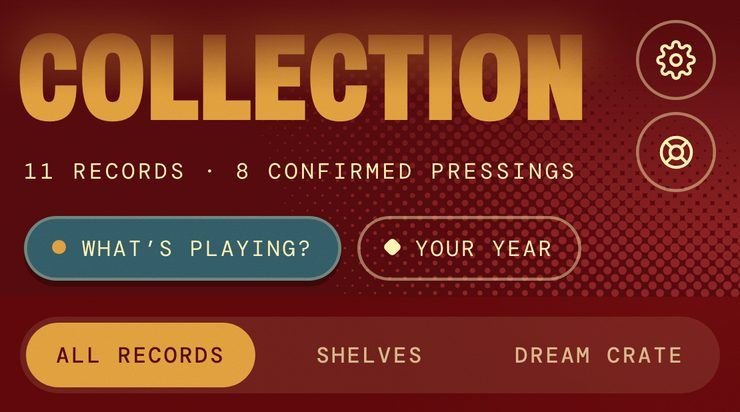
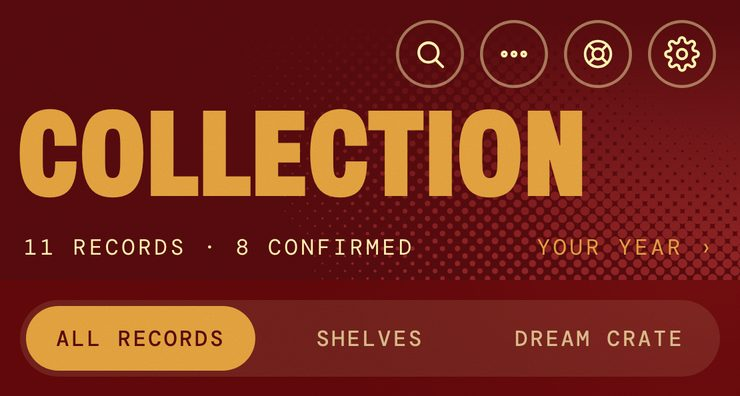
Update prototype

diff --git a/index.html b/index.html
@@ -1089,6 +1089,32 @@ ul.plain{margin:0 0 10px;padding-left:18px;font-size:14px;line-height:1.45}ul.pl
 .scan.roomy .vf[data-m=barcode] ~ .guide{top:596px}
 }
 .vf .corner{vector-effect:non-scaling-stroke}
+/* Collection: a calm header. Tools live behind the search and ⋯ buttons; the nudge floats low and slim. */
+#collection .gear,#collection .helpb.colh{top:62px;width:34px;height:34px}
+#collection .gear svg,#collection .helpb.colh svg{width:18px;height:18px}
+#collection .gear{right:22px}
+#collection .helpb.colh{right:64px}
+#collection .gear.colv{right:106px}
+#collection .gear.cols{right:148px}
+.fdot{position:absolute;top:2px;right:2px;width:9px;height:9px;border-radius:50%;background:var(--gold);box-shadow:0 0 0 2px var(--ox)}
+#collection .hd.sm{padding-top:44px}
+.colline{display:flex;justify-content:space-between;align-items:baseline;gap:12px;max-width:none!important}
+.yrlink,.colline .yrlink{font-family:var(--mono);font-size:11px;letter-spacing:.14em;text-transform:uppercase;color:var(--gold);white-space:nowrap}
+.search[hidden]{display:none}
+#nudge{position:absolute;left:0;right:0;bottom:98px;z-index:30;pointer-events:none;padding:0 16px}
+#nudge .nudgew{pointer-events:auto;display:flex;align-items:center;margin-top:8px;border-radius:999px;background:rgba(42,5,8,.96);box-shadow:inset 0 0 0 1.5px rgba(224,159,62,.6)}
+.nudge,.nudge.n2{margin:0;width:auto;flex:1;min-width:0;background:none;color:var(--cream);padding:11px 6px 11px 16px;display:flex;align-items:center;justify-content:space-between;gap:10px;font-family:var(--mono);font-size:11px;letter-spacing:.1em;text-transform:uppercase;text-align:left}
+.nudge i,.nudge:not(.n2) i{background:none;color:var(--gold);padding:0;font-weight:500;font-size:11px;letter-spacing:.12em}
+.nx{width:34px;height:34px;flex:none;color:var(--cream);opacity:.7;font-size:20px;line-height:1}
+.sheet .vrow{display:flex;align-items:center;justify-content:space-between;gap:12px;padding:12px 0;border-top:1.5px solid rgba(84,11,14,.18);font-family:var(--mono);font-size:12px;letter-spacing:.1em;text-transform:uppercase}
+.sheet .vrow .sortb{text-decoration:underline;text-underline-offset:4px;text-decoration-thickness:1.5px;font-family:var(--mono);font-size:12px;letter-spacing:.1em;text-transform:uppercase;color:var(--ox)}
+.sheet .vlab{padding:14px 0 6px;border-top:1.5px solid rgba(84,11,14,.18);font-family:var(--mono);font-size:11px;letter-spacing:.14em;text-transform:uppercase;opacity:.75}
+.sheet .chips{padding:2px 0 12px;flex-wrap:wrap;overflow:visible}
+.sheet .chip{color:var(--ox);box-shadow:inset 0 0 0 1.5px rgba(84,11,14,.4)}
+.sheet .chip[aria-pressed=true]{background:var(--ox);color:var(--cream)}
+.sheet .legend{padding:2px 0 16px;opacity:1;flex-wrap:wrap}
+.sheet .legend i{border-color:var(--ox)}.sheet .legend i.c{background:var(--ox)}.sheet .legend i.l{background:linear-gradient(90deg,var(--ox) 50%,transparent 50%)}
+
 
 .shutter{bottom:110px;width:64px;height:64px;box-shadow:0 0 0 4px var(--ox),0 0 0 7px var(--cream)}
 .shutter::after{inset:14px;border-width:3px}
@@ -1424,21 +1450,18 @@ ul.plain{margin:0 0 10px;padding-left:18px;font-size:14px;line-height:1.45}ul.pl
     <!-- Collection -->
     <section class="screen" data-screen="collection" id="collection">
       <div class="scroll" id="colScroll">
+        <button class="gear cols" id="colSearchBtn" data-colsearch="1" aria-label="Search your collection"><svg viewBox="0 0 24 24" aria-hidden="true"><circle cx="11" cy="11" r="6.5"/><path d="M16 16l4.5 4.5"/></svg></button>
+        <button class="gear colv" id="colViewBtn" data-colview="1" aria-label="Sort, filter and layout"><svg viewBox="0 0 24 24" aria-hidden="true"><circle cx="5.5" cy="12" r="1.4"/><circle cx="12" cy="12" r="1.4"/><circle cx="18.5" cy="12" r="1.4"/></svg><u class="fdot" id="colDot" hidden></u></button>
         <button class="helpb colh" data-help="1" aria-label="How to use Memory Wax"><svg viewBox="0 0 24 24" aria-hidden="true"><circle cx="12" cy="12" r="8.6"/><circle cx="12" cy="12" r="3.6"/><path d="M5.9 5.9l3.5 3.5M14.6 14.6l3.5 3.5M18.1 5.9l-3.5 3.5M9.4 14.6l-3.5 3.5"/></svg></button>
         <button class="gear" data-set="settings" aria-label="Settings and data"><svg viewBox="0 0 24 24"><circle cx="12" cy="12" r="3.2"/><path d="M19.4 15a1.7 1.7 0 0 0 .3 1.8l.1.1a2 2 0 1 1-2.8 2.8l-.1-.1a1.7 1.7 0 0 0-1.8-.3 1.7 1.7 0 0 0-1 1.5V21a2 2 0 1 1-4 0v-.1a1.7 1.7 0 0 0-1.1-1.5 1.7 1.7 0 0 0-1.8.3l-.1.1a2 2 0 1 1-2.8-2.8l.1-.1a1.7 1.7 0 0 0 .3-1.8 1.7 1.7 0 0 0-1.5-1H3a2 2 0 1 1 0-4h.1a1.7 1.7 0 0 0 1.5-1.1 1.7 1.7 0 0 0-.3-1.8l-.1-.1a2 2 0 1 1 2.8-2.8l.1.1a1.7 1.7 0 0 0 1.8.3H9a1.7 1.7 0 0 0 1-1.5V3a2 2 0 1 1 4 0v.1a1.7 1.7 0 0 0 1 1.5 1.7 1.7 0 0 0 1.8-.3l.1-.1a2 2 0 1 1 2.8 2.8l-.1.1a1.7 1.7 0 0 0-.3 1.8V9a1.7 1.7 0 0 0 1.5 1H21a2 2 0 1 1 0 4h-.1a1.7 1.7 0 0 0-1.5 1z"/></svg></button>
-        <div class="hd sm"><h2 class="disp">Collection</h2><p id="colSub"></p><div class="hearrow"><button class="hearpill press" data-hear="open">What’s playing?</button><button class="hearpill yr press" data-year="open">Your year</button></div></div>
+        <div class="hd sm"><h2 class="disp">Collection</h2><p class="colline"><span id="colSub"></span><button class="yrlink" data-year="open">Your year ›</button></p></div>
         <div class="colbar"><div class="seg" id="colTabs" style="--i:0" role="group" aria-label="Collection view">
           <i class="thumb"></i><button aria-pressed="true" data-t="0">All records</button><button aria-pressed="false" data-t="1">Shelves</button><button aria-pressed="false" data-t="2">Dream Crate</button></div></div>
 
         <div id="v-all">
           <div id="firstRun" class="firstrun" hidden><span class="kick">Start here</span><h3 class="disp">Add your first album</h3><p>Scan it, type it in, or bring a list you already keep. We’ll do the rest.</p><button class="pill press" id="goScan">Scan an album</button><button class="pill press" id="goType" style="background:transparent;color:var(--cream);box-shadow:inset 0 0 0 1.5px var(--cream)">Type it in</button><button class="pill press" data-set="import" style="background:transparent;color:var(--cream);box-shadow:inset 0 0 0 1.5px var(--cream)">Import from Discogs</button></div>
           <div id="allBody">
-          <div id="nudge"></div>
-          <input class="search" id="search" type="search" placeholder="Search credits, labels, matrix, memories" aria-label="Search your collection" autocomplete="off">
-          <div class="chips" id="chips"></div>
-          <div class="ctrl"><button class="sortb" id="sortBtn"></button><button class="sortb" id="selBtn">Select</button>
-            <div class="seg" id="viewSeg" style="--i:0;--n:2" role="group" aria-label="Layout"><i class="thumb"></i><button aria-pressed="true" data-v="grid">Grid</button><button aria-pressed="false" data-v="list">List</button></div></div>
-          <div class="legend"><span><i class="c"></i>Confirmed</span><span><i class="l"></i>Likely</span><span><i></i>Album only</span><button class="legq" data-confhelp="1" aria-label="What do Confirmed, Likely and Album only mean?">?</button></div>
+          <input class="search" id="search" type="search" placeholder="Search credits, labels, matrix, memories" aria-label="Search your collection" autocomplete="off" hidden>
           <div class="rgrid" id="rgrid"></div>
           </div>
         </div>
@@ -1453,6 +1476,7 @@ ul.plain{margin:0 0 10px;padding-left:18px;font-size:14px;line-height:1.45}ul.pl
           <div id="wants" style="padding:4px 20px 0"></div>
         </div>
       </div>
+      <div id="nudge"></div>
     </section>
 
     <!-- Collectors -->
@@ -1474,6 +1498,18 @@ ul.plain{margin:0 0 10px;padding-left:18px;font-size:14px;line-height:1.45}ul.pl
     <div class="mini" id="miniNP" hidden><button class="mopen" data-npa="open" aria-label="Open the player"><span class="mart" id="miniArt"></span><span style="min-width:0"><b id="miniT"></b><em id="miniA"></em></span></button><button class="mtog" id="miniTog" data-npa="toggle" aria-label="Pause"></button></div>
 
     <div class="backdrop" id="backdrop"></div>
+
+    <div class="sheet" id="sheet-view" role="dialog" aria-label="Sort, filter and layout">
+      <h4 class="disp">View</h4>
+      <div class="vrow"><span>Sort</span><button class="sortb" id="sortBtn"></button></div>
+      <div class="vrow"><span>Layout</span><div class="seg sheetseg" id="viewSeg" style="--i:0;--n:2;width:150px;margin:0" role="group" aria-label="Layout"><i class="thumb"></i><button aria-pressed="true" data-v="grid">Grid</button><button aria-pressed="false" data-v="list">List</button></div></div>
+      <div class="vlab">Show</div>
+      <div class="chips" id="chips"></div>
+      <div class="vrow"><span>Pick several records</span><button class="sortb" id="selBtn">Select</button></div>
+      <div class="vlab">What the dots mean</div>
+      <div class="legend"><span><i class="c"></i>Confirmed</span><span><i class="l"></i>Likely</span><span><i></i>Album only</span><button class="legq" data-confhelp="1" aria-label="What do Confirmed, Likely and Album only mean?">?</button></div>
+      <button class="go press" data-close="1">Done</button>
+    </div>
 
     <div class="sheet" id="sheet-cands" role="dialog" aria-label="Which pressing do you have">
       <h4 class="disp">Which one do you have?</h4>
@@ -1974,7 +2010,7 @@ function initState(empty){
 /* first launch is the clean, nothing-scanned version. The sample collection is opt-in (Settings, or ?demo=1). */
 /* Developer tools (test lab, sample data, saved scan shots, runtime-loaded libraries). Release builds set this to false in scripts/sync-web.sh --release so no hidden or dormant features ship. */
 const DEVTOOLS=true;
-const BUILD='0.43.1 · keyboard fit';
+const BUILD='0.44.0 · quiet collection';
 /* where people reach us. Left empty until the real address exists, and the screens that need it stay hidden meanwhile. */
 const SUPPORT_EMAIL='',SITE_URL='';
 const DEMO=DEVTOOLS&&(()=>{try{if(/[?&]demo=1/.test(location.search))localStorage.setItem('mw_demo','1');if(/[?&]demo=0/.test(location.search))localStorage.removeItem('mw_demo');return localStorage.getItem('mw_demo')==='1'}catch(e){return false}})();
@@ -2014,6 +2050,16 @@ function openSheet(id){
   if(id==='credit'){if(stack)st.ret='listen';else if(!$('#sheet-credit').classList.contains('on'))st.ret=null}else if(id!=='listen')st.ret=null;
   if(id==='credit')$('#sheet-credit').classList.toggle('stk',stack);
   $$('.sheet.on').forEach(x=>{if(x.id!=='sheet-'+id&&!(stack&&x.id==='sheet-listen'))x.classList.remove('on')});$('#backdrop').classList.add('on');$('#sheet-'+id).classList.add('on')}
+/* search sits behind the magnifier, or a pull down at the top of the list */
+function openColSearch(){
+  if(st.colTab!==0){st.colTab=0}
+  st.searchOpen=true;renderCollection();const sc=$('#colScroll');if(sc)sc.scrollTop=0;
+  setTimeout(()=>{const i=$('#search');i&&i.focus()},60);
+}
+{const sc=$('#colScroll');let y0=null;
+ sc.addEventListener('touchstart',e=>{y0=sc.scrollTop<=0?e.touches[0].clientY:null},{passive:true});
+ sc.addEventListener('touchmove',e=>{if(y0==null||st.searchOpen||st.screen!=='collection'||!own().length)return;if(e.touches[0].clientY-y0>80&&sc.scrollTop<=0){y0=null;haptic&&haptic('tick');openColSearch()}},{passive:true});
+ $('#search').addEventListener('blur',()=>setTimeout(()=>{if(!$('#search').value.trim()&&st.searchOpen){st.searchOpen=false;renderCollection()}},200))}
 /* when the keyboard opens, iOS shifts the view; keep any open sheet inside the part of the screen that is still visible, so its title never slides under the status bar */
 function kbFit(vv){
   vv=vv||window.visualViewport;if(!vv)return;
@@ -3221,14 +3267,17 @@ function askRemoveRecords(ids){
 }
 function renderCollection(){
   const all=own(),conf=all.filter(r=>r.c==='confirmed').length,empty=!all.length;
-  $('#colSub').textContent=empty?'0 records':`${all.length} records · ${conf} confirmed pressings`;
+  $('#colSearchBtn').hidden=$('#colViewBtn').hidden=empty;
   $('#firstRun').hidden=!empty;$('#allBody').hidden=empty;
   const genres=['All',...new Set(all.map(r=>r.g).filter(Boolean))];
   $('#chips').innerHTML=genres.map(g=>`<button class="chip" data-chip="${g}" aria-pressed="${st.filter===g}">${g}</button>`).join('')+(RECS.some(r=>st.owned.has(r.id)&&IS7(r))?`<button class="chip" data-chip="45s" aria-pressed="${st.filter==='45s'}">45s</button>`:'')+`<button class="chip" data-conf aria-pressed="${st.confOnly}">Confirmed only</button>`;
   const q=st.q.trim().toLowerCase();
   let items=all.map(r=>({r,why:q?match(r,q):''})).filter(x=>x.why!==null&&(st.filter==='All'||(st.filter==='45s'?IS7(x.r):x.r.g===st.filter))&&(!st.confOnly||x.r.c==='confirmed'));
   items.sort(st.sort==='az'?(a,b)=>a.r.t.localeCompare(b.r.t):st.sort==='year'?(a,b)=>a.r.y-b.r.y:(a,b)=>b.r.ord-a.r.ord);
-  $('#sortBtn').textContent=`${items.length} shown · ${SORTS[st.sort]}`;$('#sortBtn').setAttribute('aria-label','Change sort order. Now: '+SORTS[st.sort]);
+  $('#sortBtn').textContent=SORTS[st.sort];
+  {const fil=st.filter!=='All'||st.confOnly||!!q;$('#colDot').hidden=!(st.filter!=='All'||st.confOnly||st.view==='list'||st.sort!=='recent');
+   $('#colSub').innerHTML=empty?'0 records':fil?`${items.length} of ${all.length} shown · <button class="yrlink" data-clearf="1">Clear</button>`:`${all.length} records · ${conf} confirmed`;
+   $('#search').hidden=!(st.searchOpen||q);}$('#sortBtn').setAttribute('aria-label','Change sort order. Now: '+SORTS[st.sort]);
   if(st.colTab!==0||empty)st.sel=null;
   $('#selBtn').textContent=st.sel?'Cancel':'Select';$('#selBtn').hidden=!all.length;
   $('#selBar').hidden=!(st.sel&&st.screen==='collection');$('#selN').textContent=st.sel?`${st.sel.size} selected`:'';
@@ -3236,7 +3285,8 @@ function renderCollection(){
   g.innerHTML=!items.length?'<p class="empty">Nothing matches. Try another word or filter.</p>':!asList?items.map(x=>tileHTML(x.r)).join(''):
     items.map(({r,why})=>`<div class="lrow${st.sel&&st.sel.has(r.id)?' sel':''}"><div class="tile m${r.m}${cov(r)?` has-img" style="background-image:url('${cov(r)}')`:''}"></div><button class="lt" data-open="${r.id}" style="text-align:left"><b>${esc(r.t)}</b><span>${esc(r.a)} · ${r.y}${why?' · '+why:''}</span></button><span class="lst">${stLabel[r.c]}</span><i class="ck" aria-hidden="true"></i><button class="plus" data-plus="${r.id}" aria-label="Add ${esc(r.t)} to a shelf">+</button></div>`).join('');
   const loose=all.filter(r=>r.c!=='confirmed').length;
-  $('#nudge').innerHTML=(backupStale()?`<button class="nudge n2" data-set="backup"><div><b>${lastBackupAt()?'It’s been a while since your last backup':'Your collection lives on this phone'}</b><span>Save a backup file. It takes a few seconds.</span></div><i>Back up</i></button>`:'')+(loose?`<button class="nudge" data-nudge="1"><div><b>${loose} could be confirmed</b><span>Scan their deadwax to name the exact pressing.</span></div><i>Scan</i></button>`:'');
+  $('#nudge').innerHTML=st.nudgeOff?'':`<div class="nudgew">${backupStale()?`<button class="nudge n2" data-set="backup"><span>${lastBackupAt()?'Time for a backup':'Back up your collection'}</span><i>Back up ›</i></button>`:loose?`<button class="nudge" data-nudge="1"><span>${loose} could be confirmed</span><i>Scan ›</i></button>`:''}<button class="nx" data-nudgex="1" aria-label="Hide this for now">×</button></div>`;
+  if(!backupStale()&&!loose||st.colTab!==0||st.sel||empty)$('#nudge').innerHTML='';
   renderShelves();renderWants();
   $$('#colTabs button').forEach(b=>b.setAttribute('aria-pressed',String(+b.dataset.t===st.colTab)));
   $('#colTabs').style.setProperty('--i',st.colTab);
@@ -5710,7 +5760,7 @@ document.addEventListener('input',e=>{
 
 /* one delegated handler for everything dynamic */
 document.addEventListener('click',e=>{
-  const t=e.target.closest('[data-help],[data-door],[data-welcome],[data-me],[data-ac],[data-fr],[data-sitend],[data-sitdel],[data-sitpl],[data-amconnect],[data-cloud],[data-hearorg],[data-sit],[data-sitshare],[data-year],[data-yearshare],[data-yearpick],[data-logspin],[data-hearver],[data-hear],[data-hearadd],[data-hearfollow],[data-size],[data-trail],[data-trailback],[data-digrec],[data-dgtest],[data-impfill],[data-impfillstop],[data-npa],[data-cr],[data-addtyped],[data-pidpick],[data-plus],[data-open],[data-covphoto],[data-pldup],[data-plall],[data-rmrec],[data-selrm],[data-selcancel],[data-sureyes],[data-sureno],[data-wrm],#selBtn,[data-chip],[data-conf],[data-v],[data-tog],[data-sheet],[data-set],[data-share],[data-alert],[data-cond],#sortBtn,#colTabs button,#newShelfBtn,#newToggle,#newCreate,#visSeg button,#newVis button,#batchBtn,#doneBtn,#dupSecond,#dupSame,#goScan,#goType,#batchMore,[data-cur],[data-follow],[data-dwscan],[data-foundpick],[data-bcpick],[data-dwattach],[data-dwagain],[data-dwreset],[data-catmanual],[data-catlook],[data-dgtoken],[data-dgsave],[data-dgclear],[data-imprun],[data-impcancel],[data-np],[data-recap],[data-spinpick],[data-spinv],[data-spinopen],[data-spinclear],[data-frok],[data-frno],[data-addwant],[data-acct],[data-acctopen],[data-presh],[data-segtog],[data-card],[data-cardq],[data-cardt],[data-nudge],[data-listen],[data-lconn],[data-ldis],[data-ltrack],[data-lplay],[data-battle],[data-bpick],[data-bvote],[data-bwhy],[data-bnext],[data-crn],[data-fp],[data-svcgo],[data-svcdis],[data-qsave],[data-close],[data-host],[data-hnext],[data-hback],[data-hrec],[data-hvis],[data-hpub],[data-sess],[data-sessdel],[data-sessplay],[data-confhelp],[data-cam],[data-dc],[data-shedit],[data-shsave],[data-shdel],[data-shl],[data-shpl],[data-plview],[data-plnew],[data-plsave],[data-plplay],[data-plvis],[data-plto],[data-pledit],[data-pldel2],[data-pladd],[data-plrm],[data-clisten],[data-lnext],[data-lprev],[data-lq],[data-plan],[data-notes],[data-photo],[data-pdel],[data-copy],[data-nshare],[data-cardsave],[data-tablecode],[data-series],[data-night],[data-nrec],[data-nightsave],[data-runimport],[data-dmo],[data-lab],[data-nroom],[data-foundadd],[data-foundno],[data-barlook],[data-barmanual],[data-ncal],[data-nphase],[data-nmode],[data-nhost],[data-nsend],[data-nrep],[data-nrem],[data-nnext],[data-nslow],[data-nlock],[data-nend],[data-nremind],[data-ngather],[data-nplan],[data-hmode]');
+  const t=e.target.closest('[data-colsearch],[data-colview],[data-clearf],[data-nudgex],[data-help],[data-door],[data-welcome],[data-me],[data-ac],[data-fr],[data-sitend],[data-sitdel],[data-sitpl],[data-amconnect],[data-cloud],[data-hearorg],[data-sit],[data-sitshare],[data-year],[data-yearshare],[data-yearpick],[data-logspin],[data-hearver],[data-hear],[data-hearadd],[data-hearfollow],[data-size],[data-trail],[data-trailback],[data-digrec],[data-dgtest],[data-impfill],[data-impfillstop],[data-npa],[data-cr],[data-addtyped],[data-pidpick],[data-plus],[data-open],[data-covphoto],[data-pldup],[data-plall],[data-rmrec],[data-selrm],[data-selcancel],[data-sureyes],[data-sureno],[data-wrm],#selBtn,[data-chip],[data-conf],[data-v],[data-tog],[data-sheet],[data-set],[data-share],[data-alert],[data-cond],#sortBtn,#colTabs button,#newShelfBtn,#newToggle,#newCreate,#visSeg button,#newVis button,#batchBtn,#doneBtn,#dupSecond,#dupSame,#goScan,#goType,#batchMore,[data-cur],[data-follow],[data-dwscan],[data-foundpick],[data-bcpick],[data-dwattach],[data-dwagain],[data-dwreset],[data-catmanual],[data-catlook],[data-dgtoken],[data-dgsave],[data-dgclear],[data-imprun],[data-impcancel],[data-np],[data-recap],[data-spinpick],[data-spinv],[data-spinopen],[data-spinclear],[data-frok],[data-frno],[data-addwant],[data-acct],[data-acctopen],[data-presh],[data-segtog],[data-card],[data-cardq],[data-cardt],[data-nudge],[data-listen],[data-lconn],[data-ldis],[data-ltrack],[data-lplay],[data-battle],[data-bpick],[data-bvote],[data-bwhy],[data-bnext],[data-crn],[data-fp],[data-svcgo],[data-svcdis],[data-qsave],[data-close],[data-host],[data-hnext],[data-hback],[data-hrec],[data-hvis],[data-hpub],[data-sess],[data-sessdel],[data-sessplay],[data-confhelp],[data-cam],[data-dc],[data-shedit],[data-shsave],[data-shdel],[data-shl],[data-shpl],[data-plview],[data-plnew],[data-plsave],[data-plplay],[data-plvis],[data-plto],[data-pledit],[data-pldel2],[data-pladd],[data-plrm],[data-clisten],[data-lnext],[data-lprev],[data-lq],[data-plan],[data-notes],[data-photo],[data-pdel],[data-copy],[data-nshare],[data-cardsave],[data-tablecode],[data-series],[data-night],[data-nrec],[data-nightsave],[data-runimport],[data-dmo],[data-lab],[data-nroom],[data-foundadd],[data-foundno],[data-barlook],[data-barmanual],[data-ncal],[data-nphase],[data-nmode],[data-nhost],[data-nsend],[data-nrep],[data-nrem],[data-nnext],[data-nslow],[data-nlock],[data-nend],[data-nremind],[data-ngather],[data-nplan],[data-hmode]');
   if(!t)return;
   if(t.dataset.cr){openCredit(t.dataset.cr);return}
   if(t.dataset.crn){NAMEKEY[t.dataset.crn]?openCredit(NAMEKEY[t.dataset.crn]):openCreditName(t.dataset.crn,t.dataset.crr,t.dataset.pid,t.dataset.mbid);return}
@@ -5880,7 +5930,11 @@ document.addEventListener('click',e=>{
   if(t.dataset.addwant){const r=recOf(st.rec||1);if(!st.wants.some(w=>w.t===r.t&&w.a===r.a)){st.wants.push({t:r.t,a:r.a,note:[r.lab,r.y].filter(Boolean).join(' · ')||'Added from the record page',list:'None listed yet',alert:false,m:r.m||0});saveState();renderCollection();toast(`${r.t} added to your Dream Crate.`)}else toast('Already in your Dream Crate.');closeSheets();return}
   if(t.dataset.plus){gate(()=>openShelfSheet(+t.dataset.plus));return}
   if(t.dataset.open&&st.sel){const id=+t.dataset.open;if(st.sel.has(id))st.sel.delete(id);else st.sel.add(id);renderCollection();return}
-  if(t.id==='selBtn'){st.sel=st.sel?null:new Set();renderCollection();return}
+  if(t.dataset.colsearch){if(st.searchOpen&&!st.q){st.searchOpen=false;renderCollection()}else openColSearch();return}
+  if(t.dataset.colview){openSheet('view');return}
+  if(t.dataset.clearf){st.filter='All';st.confOnly=false;st.q='';$('#search').value='';st.searchOpen=false;renderCollection();return}
+  if(t.dataset.nudgex){st.nudgeOff=true;renderCollection();return}
+  if(t.id==='selBtn'){const on=!st.sel;st.sel=st.sel?null:new Set();renderCollection();if(on)closeSheets();return}
   if(t.dataset.selcancel){st.sel=null;renderCollection();return}
   if(t.dataset.selrm){if(!st.sel||!st.sel.size){toast('Tap the records you want to remove.');return}askRemoveRecords([...st.sel]);return}
   if(t.dataset.rmrec){askRemoveRecords([st.rec]);return}
@@ -6409,8 +6463,8 @@ const HI=(n,alt)=>`<img class="hvimg" src="assets/help/${n}.jpg" alt="${alt}" lo
 const HELP_NOW={
   scan:['How to add a record',['Pick Barcode, Label, Deadwax or Cover along the top, then tap the round button. Barcode, Label and Cover can start reading on their own.','No barcode? Tap Type it. An artist and a title is enough. Already keep a list? Settings has Import from Discogs and Upload a CSV.','The ? under the viewfinder shows how to shoot the deadwax. Listen names a song playing in the room.'],
     HI('add','The Add tab controls: the scan modes along the top, and Type it, the round button and Listen below')],
-  collection:['How to use your collection',['All records: search by title, artist, label, matrix or who played on it. The dot on each record shows how sure the match is.','Shelves group records your way. Dream Crate keeps the ones on your wish list.','What’s playing? names a song. Your year shows your listening so far. The gear is Settings: backup, import and sync.'],
-    HI('collection','The top of the Collection tab: the gear, the How to use button, What’s playing, Your year and the three tabs')],
+  collection:['How to use your collection',['The magnifier searches by title, artist, label, matrix or who played on it. You can also pull the list down. The ⋯ button sorts, filters and switches between grid and list. The dot on each record shows how sure the match is.','Shelves group records your way. Dream Crate keeps the ones on your wish list.','Your year shows your listening so far. To name a song that’s playing, use Listen on the Add tab. The gear is Settings: backup, import and sync.'],
+    HI('collection','The top of the Collection tab: search, the ⋯ menu, How to use, the gear, the count with Your year, and the three tabs')],
   reveal:['How to read a record page',['The seal shows how sure we are. Tap How we know to see the evidence.','Tap any name in The Session to see what else they played on.','My Copy is private: grade, price, photos, memory. Add to shelf, Dream Crate and Memory are in the bar at the bottom.'],
     HI('record','A record page with the cover and the Confirmed seal')+HI('actions','The bar at the bottom: Add to shelf, Dream Crate and Memory')],
   scene:['How to use Community',['Your name and photo go on the cards you share. Tap Edit to add three short answers about you.','Your sessions list every night Listen followed along. Rooms are plans for listening together. Live chat is coming.','To add friends, sign in, then invite someone with a link or find them by username.'],
